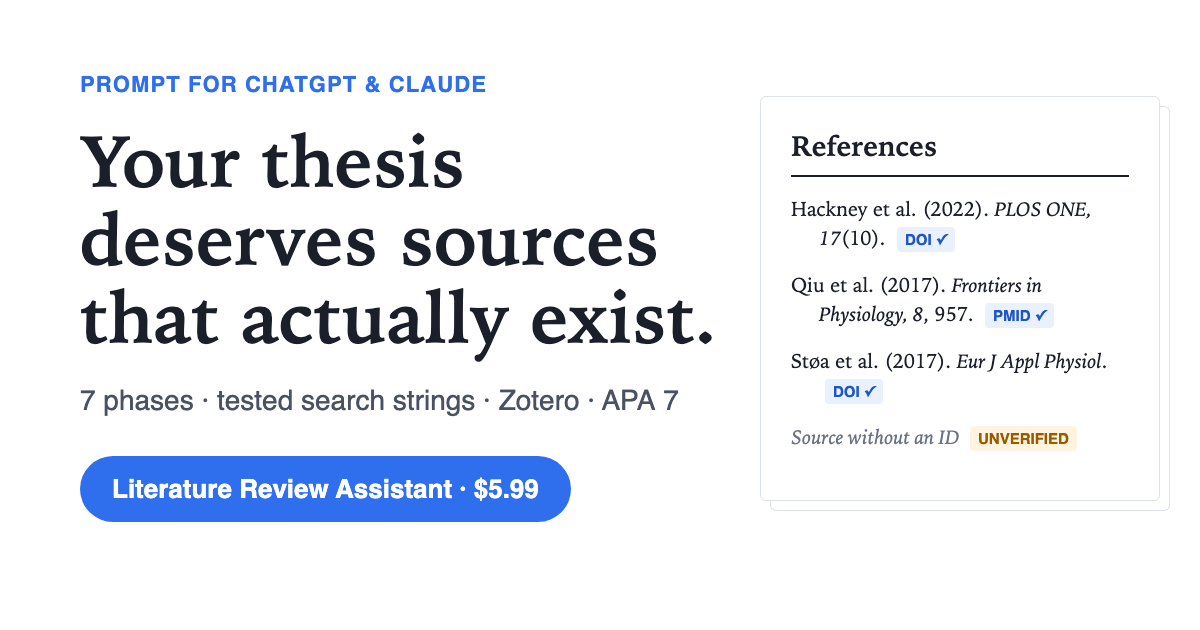
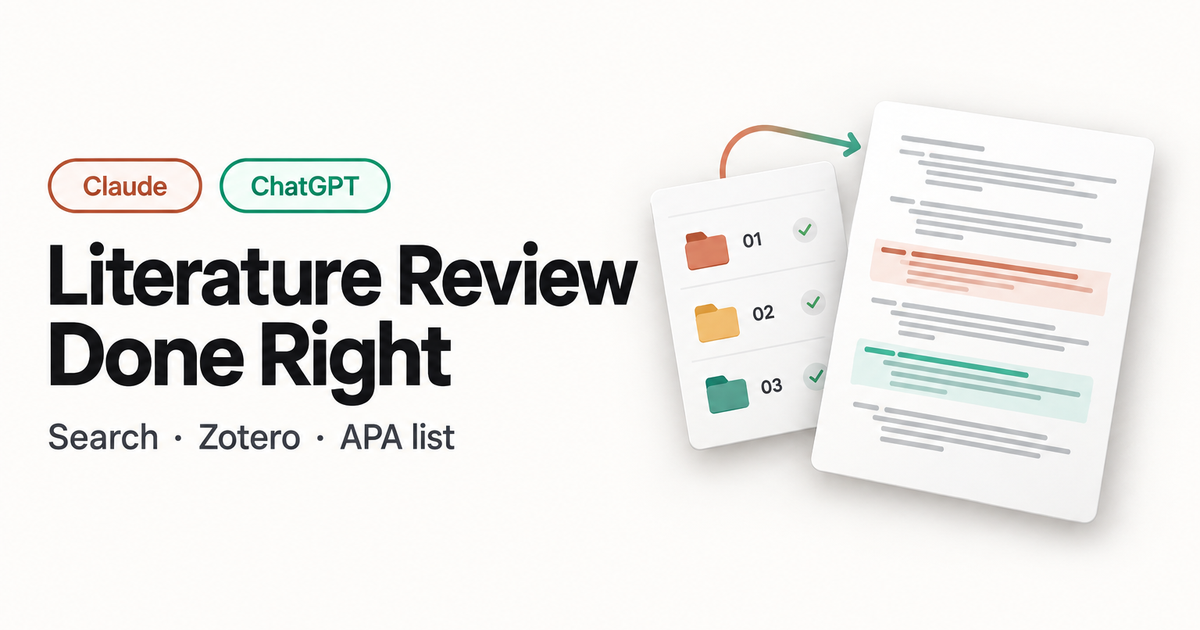
Cover im Schlussbereich und als Vorschaubild

Changed region(s): [[0.0308, 0.181, 0.9867, 0.8746], [0.0617, 0.1206, 0.4008, 0.1508], [0.5858, 0.2111, 0.6167, 0.2714]]

diff --git a/index.html b/index.html
@@ -322,6 +322,7 @@ AND (english[la] OR german[la])</pre>
     <!-- FINAL CTA -->
     <section class="final">
       <div class="wrap narrow final-inner reveal">
+        <img class="final-cover" src="cover.jpg" width="600" height="300" loading="lazy" alt="Cover: Literature Review Done Right – for Claude and ChatGPT. Search, Zotero, APA list.">
         <h2>Start your search with a plan.</h2>
         <p>Seven phases, tested strings, sources you can check.</p>
         <button class="btn btn-light" type="button" data-buy>Get the prompt – $5.99</button>

diff --git a/styles.css b/styles.css
@@ -226,6 +226,7 @@ sup.fn a { text-decoration: none; font-weight: 600; }
 .final { background: var(--accent); color: #fff; padding: 80px 0; text-align: center; }
 .final h2 { color: #fff; }
 .final p { color: #DCE7FD; margin: 12px 0 28px; font-size: 1.1rem; }
+.final-cover { display: block; width: 100%; max-width: 600px; height: auto; margin: 0 auto 40px; border-radius: var(--radius); box-shadow: 0 18px 40px rgba(10, 30, 80, .35); }
 
 /* Footer */
 .site-footer { padding: 32px 0 40px; border-top: 1px solid var(--rule); }
